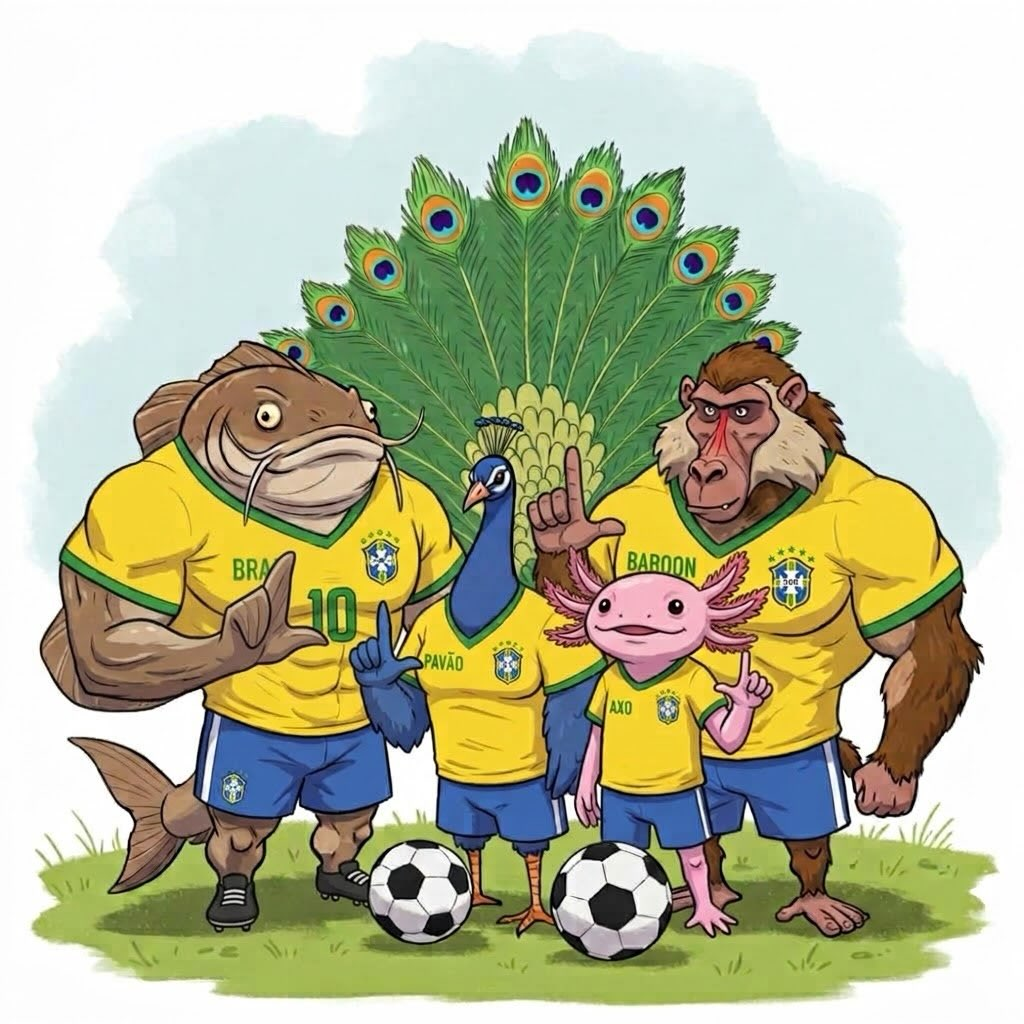
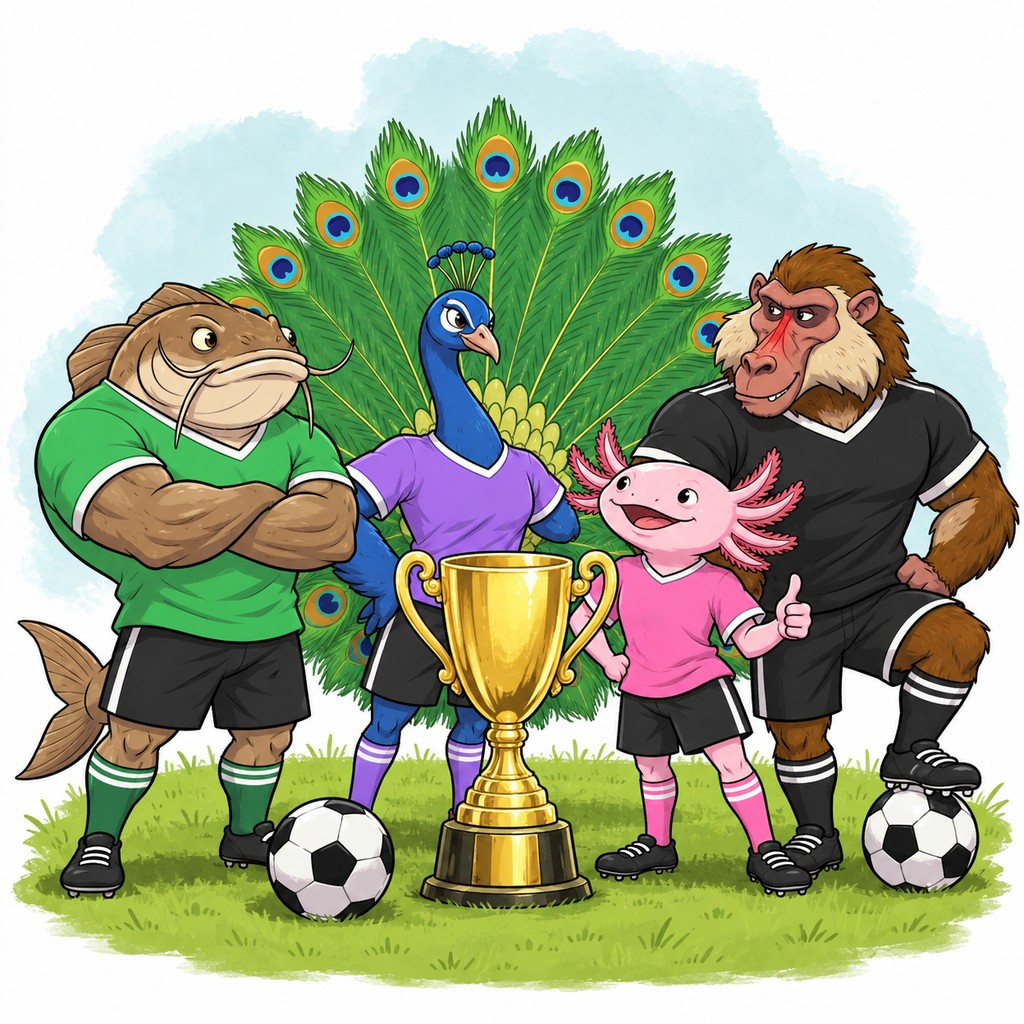
SuperCopa art: the four captains in their team shirts around the trophy

diff --git a/site/og_copa.py b/site/og_copa.py
@@ -3,8 +3,8 @@ post in the group) and og/story-<days>.jpg (1080x1920 Instagram story).
 
     python og_copa.py      # deploy.ps1 runs it; needs Pillow on this PC, not on the server
 
-Near-black, Bahnschrift condensed, white + BioFut pink, the 4-colour stripe at the bottom, the mascots' art (copa_art.jpg,
-the Instagram's 18/10 post). Up to 05/11 the sign-up deadline, after it the four teams in their shirt colours.
+Near-black, Bahnschrift condensed, white + BioFut pink, the 4-colour stripe at the bottom, the four team captains in their shirt colours (copa_art.jpg).
+Up to 05/11 the sign-up deadline, after it the four teams in their shirt colours.
 ponytail: pre-rendered per day because the server has no Pillow; a day after the last image /copa falls back to og.png.
 """
 import functools
